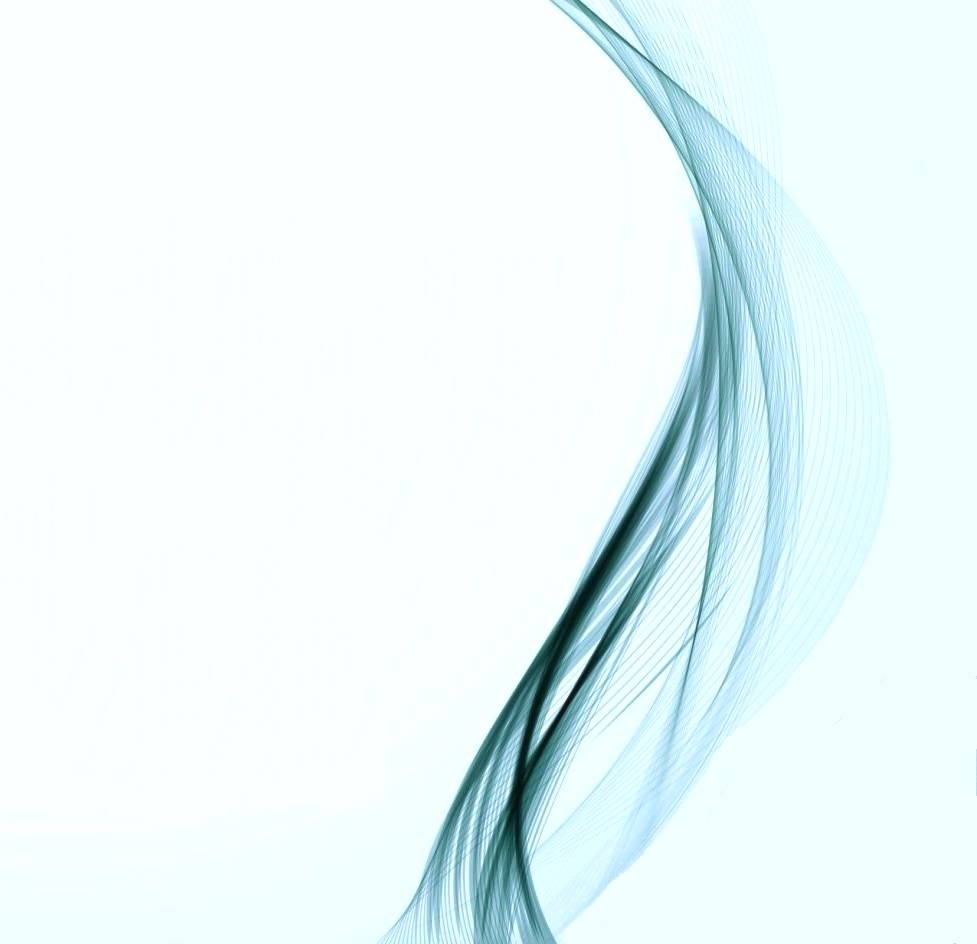
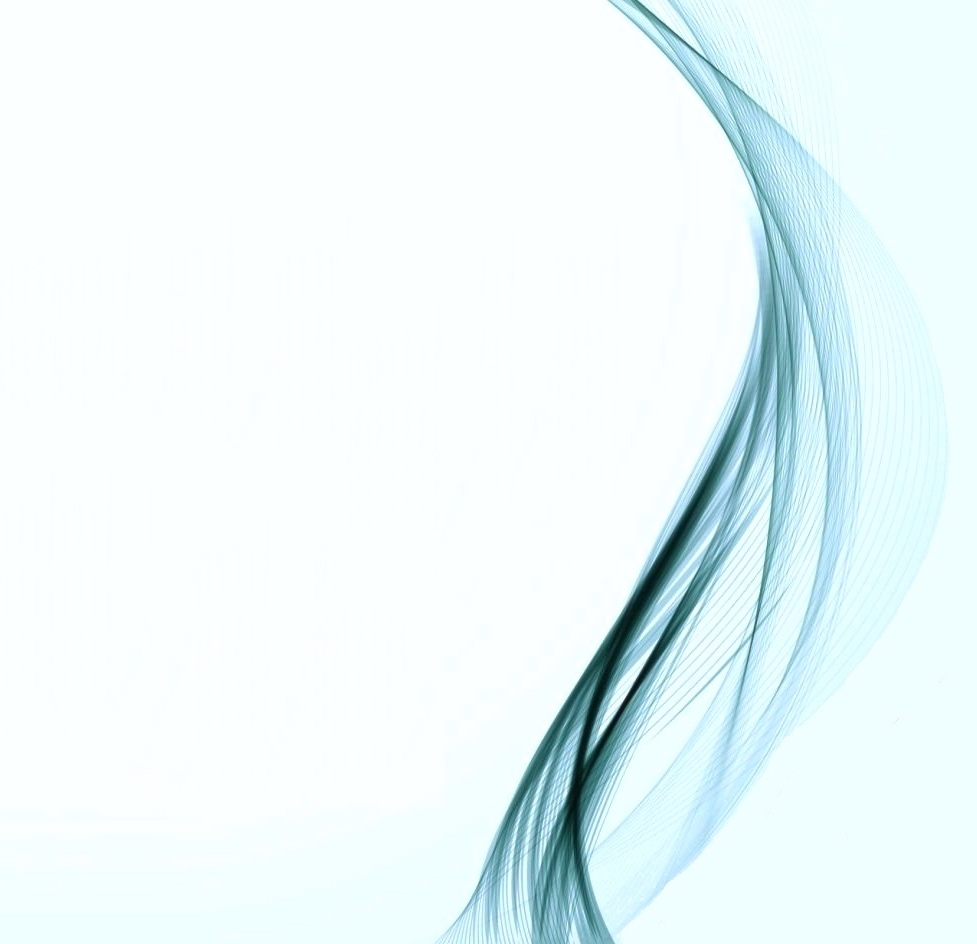
wlos

Changed region(s): [[0.3685, 0.0, 0.8905, 1.0]]

diff --git a/index.html b/index.html
@@ -20,7 +20,7 @@
       padding: 0px 8vw;
       color: #191a1a;
       background-color: #f2fefe;
-      background-image: url('wlos2.jpg');
+      background-image: url('wlos.jpg');
       background-repeat: no-repeat;
       #background-position: 10% 0%;
     }
